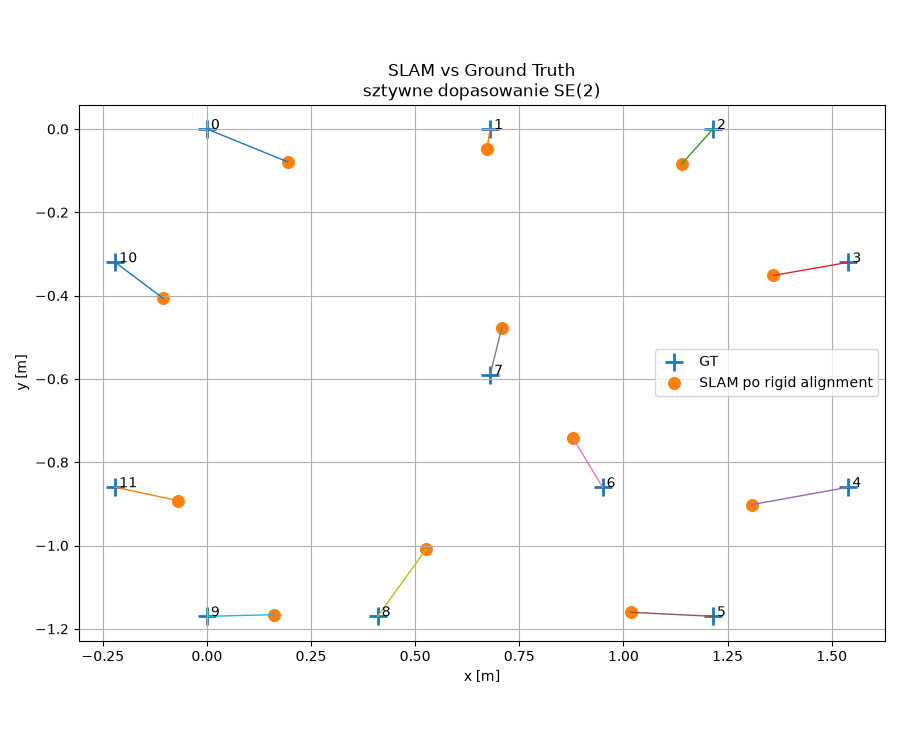
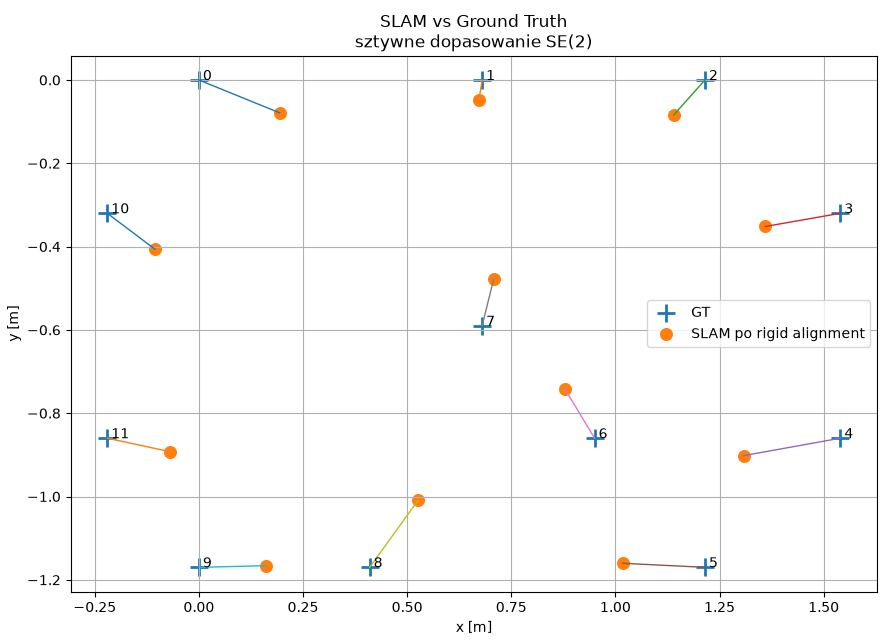
Poprawka 15

diff --git a/_posts/2026-02-22-SLAM offline.md b/_posts/2026-02-22-SLAM offline.md
@@ -41,7 +41,7 @@ Chcę sprawdzić, na ile dopuszczenie korekty trajektorii zmniejszy niespójnoś
 
 <img src="{{ 'assets/images/SLAMoffline/schemat SLAM.png' | relative_url }}" alt="schemat SLAM" style="width:100%; max-width:100%; height:auto;" />
 
-*Rys. 1. Różnica między map fittingiem a SLAM-em. W pierwszym przypadku trajektoria odometryczna pozostaje ustalona, natomiast w drugim optymalizowane są zarówno pozy pojazdu, jak i położenia landmarków.*
+*Rys. 1. Miejsce map fittingu i SLAM-u w procesie tworzenia mapy landmarków. Map fitting wykorzystuje trajektorię odometryczną jako ustaloną, natomiast SLAM pozwala później wspólnie optymalizować trajektorię i mapę.*
 
 
 ## 2) Ten sam marker w kilku miejscach mapy
@@ -153,7 +153,7 @@ W ten sposób SLAM szuka kompromisu między ruchem wynikającym z odometrii a po
 
 <img src="{{ 'assets/images/SLAMoffline/graf SLAM.png' | relative_url }}" alt="graf SLAM" style="width:100%; max-width:100%; height:auto;" />
 
-*Rys. 2. Graf SLAM: kolejne pozy pojazdu są połączone ograniczeniami odometrycznymi, a obserwacje tych samych landmarków wiążą ze sobą różne fragmenty trajektorii.*
+*Rys. 2. Schemat optymalizacji SLAM. Odometria i lokalne obserwacje landmarków dostarczają ograniczeń, na podstawie których wyznaczane są trajektoria pojazdu i mapa. Ground Truth służy wyłącznie do późniejszej walidacji.*
 
 ### 4) Dwie informacje, które trzeba pogodzić
 Najprościej myśleć o SLAM-ie jako o próbie pogodzenia dwóch informacji.
